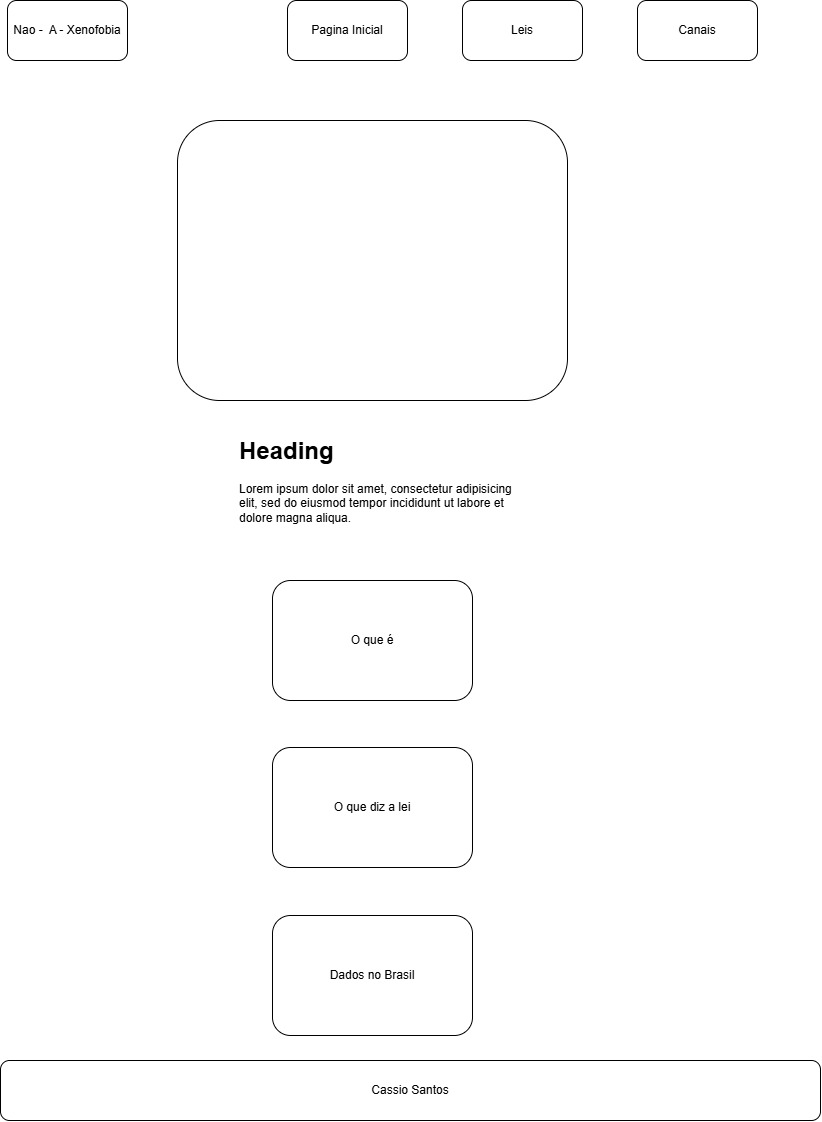
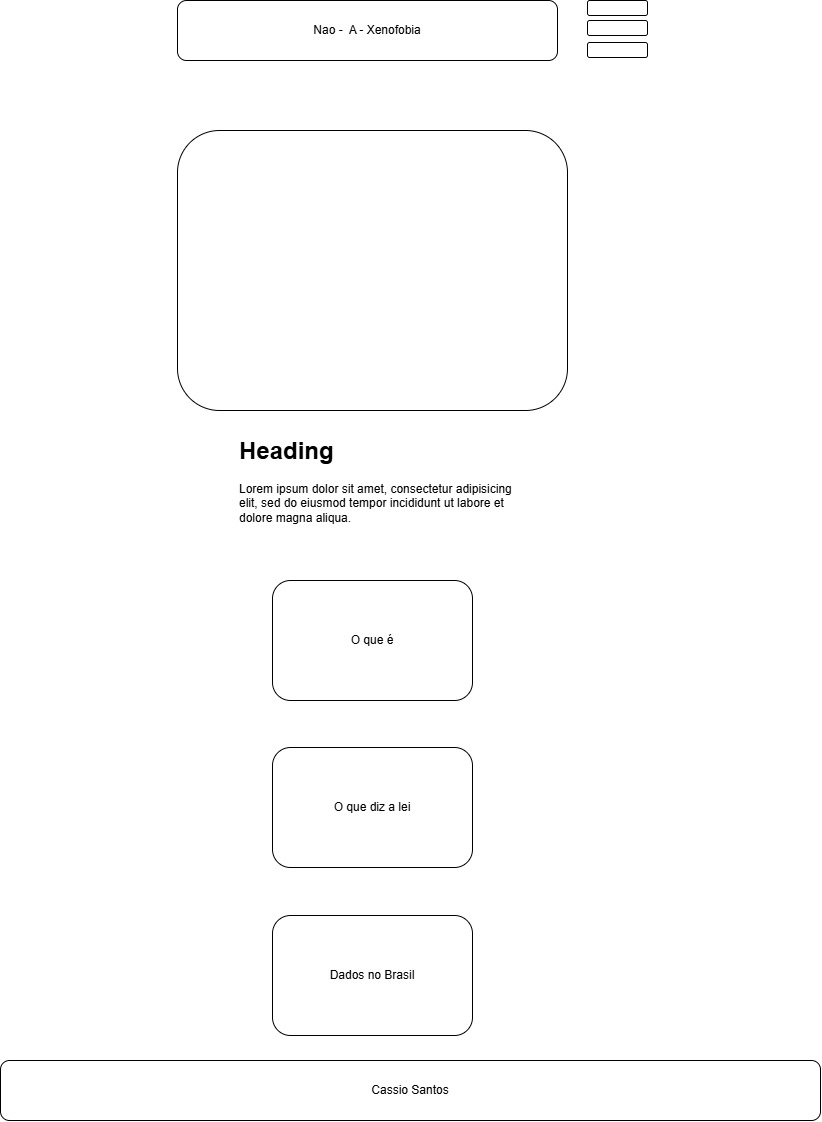
atividade semana 05

diff --git a/projeto/estilos/planejamentodosite.css b/projeto/estilos/planejamentodosite.css
@@ -1,14 +1,14 @@
 :root {
-    --cor-primaria:#1B365D ;
-    --cor-fundo: #F8F9FA;
+    --cor-primaria:#1e293b; 
+    --cor-fundo: #fff;
     --cor-texto: #000000;
     --cor-cartao: rgba(131, 125, 125, 0.9);
     --fonte-principal: Arial, Helvetica, sans-serif;
 }
 
 header{
-    background-color: #1B365D;
-    color: #F8F9FA;
+    background-color: #1e293b; 
+    color: #fff;
     padding: 1rem;
     display: flex;
     justify-content: space-between;
@@ -26,8 +26,8 @@ header{
 color:#fff}
 
 footer{
-    background-color: #1B365D;
-    color: #F8F9FA;
+    background-color: #1e293b; 
+    color: #fff;
     padding: 1rem;
     text-align: center;
 
@@ -36,6 +36,29 @@ footer{
 body{
     font-family: var(--fonte-principal);
     background-color: var(--cor-fundo);
-    color: var(--cor-texto)
+    color: var(--cor-texto);
     margin: 0;
+}
+
+
+main {
+    max-width: 900px;
+    margin: 2rem auto;
+    padding: 0 1.5rem;
+}
+
+h1, h2 {
+    margin-top: 2rem;
+    margin-bottom: 0.5rem; 
+}
+
+p {
+    margin-bottom: 1rem;
+    line-height: 1.6;
+}
+
+img {
+    margin-top: 1rem;     
+    max-width: 100%;      
+    height: auto;
 }

diff --git a/projeto/planejamentodosite.html b/projeto/planejamentodosite.html
@@ -39,8 +39,8 @@
 
             <section>
             <h2>Esquema de Cores</h2>
-            <p>#1B365D - para header, footer e títulos. </p>
-            <p>#F8F9FA - para o background da página.</p>
+            <p>#1e293b - para header, footer e títulos. </p>
+            <p>#fff- para o background da página.</p>
             </section>
  
             <section>
@@ -65,7 +65,7 @@
         </main>
 
         <footer>
-            <p>&copy; <span id="anoatual"></span> Wenndel Frade - Goiás, Brasil</p>
+            <p>&copy; <span id="anoatual"></span> Cassio Santos - Goiás, Brasil</p>
             <p id="ultimaModificacao"></p>
         </footer>
 </body>
